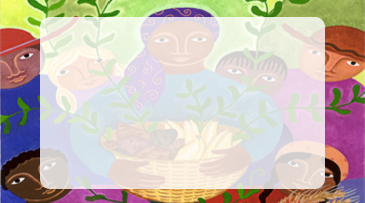
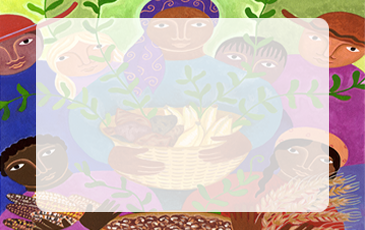
adjusted Login Screen background image to new size as required by changes in Login Screen

diff --git a/src/main/webapp/VAADIN/themes/gcp-default/styles.css b/src/main/webapp/VAADIN/themes/gcp-default/styles.css
@@ -2,6 +2,8 @@
 
 .v-panel-content-gcp-login > div {
     background-image: url(images/login.png);
+    background-repeat: no-repeat;
+    background-color: transparent;
 }
 
 .gcp-window-title {

diff --git a/src/main/java/org/generationcp/ibpworkbench/comp/form/LoginForm.java b/src/main/java/org/generationcp/ibpworkbench/comp/form/LoginForm.java
@@ -117,13 +117,12 @@ public class LoginForm extends CustomComponent implements InitializingBean, Inte
         Panel loginPanel = new Panel();
         loginPanel.setImmediate(false);
         loginPanel.setWidth("360px");
+        loginPanel.setHeight("230px");
         loginPanel.setStyleName("gcp-login");
 
         // login panel layout
         VerticalLayout loginPanelLayout = new VerticalLayout();
         loginPanelLayout.setImmediate(false);
-        loginPanelLayout.setWidth("100.0%");
-        loginPanelLayout.setHeight("100.0%");
         loginPanelLayout.setStyleName("gcp-login");
         loginPanelLayout.setMargin(true, false, true, false);
         loginPanel.setContent(loginPanelLayout);
